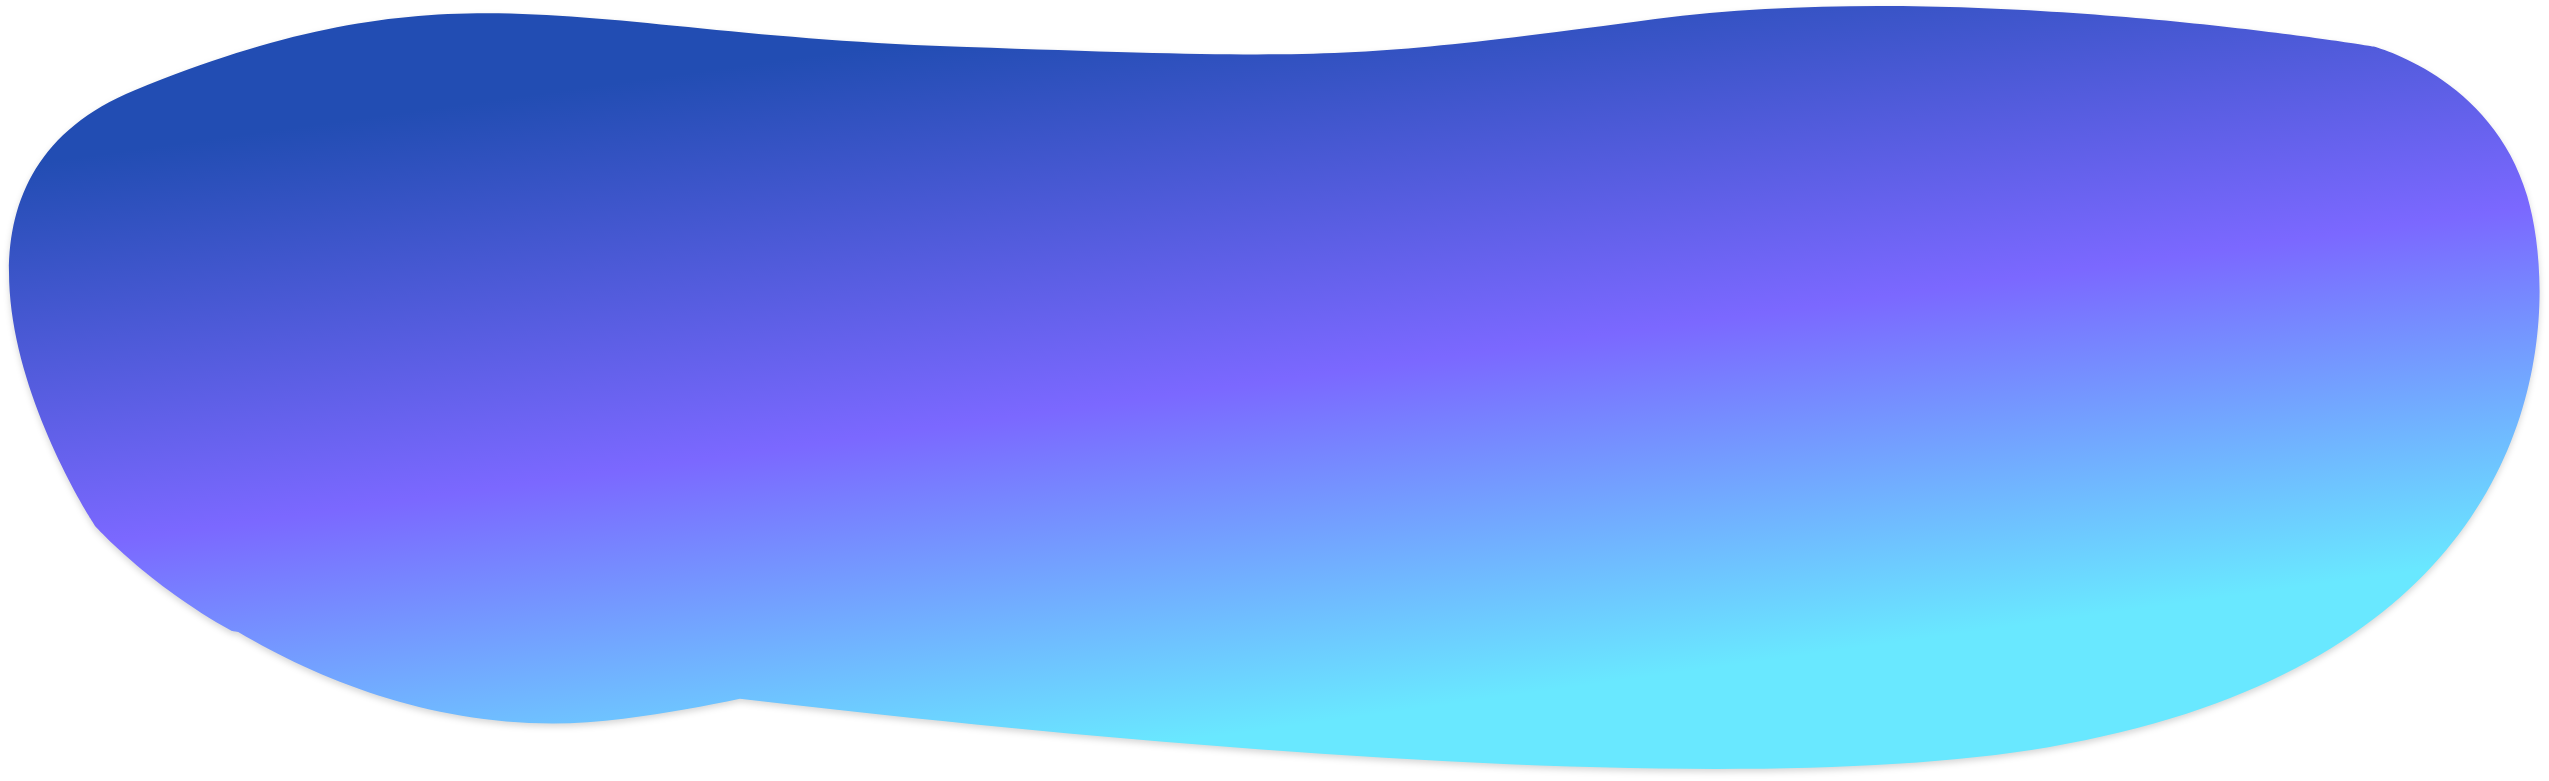
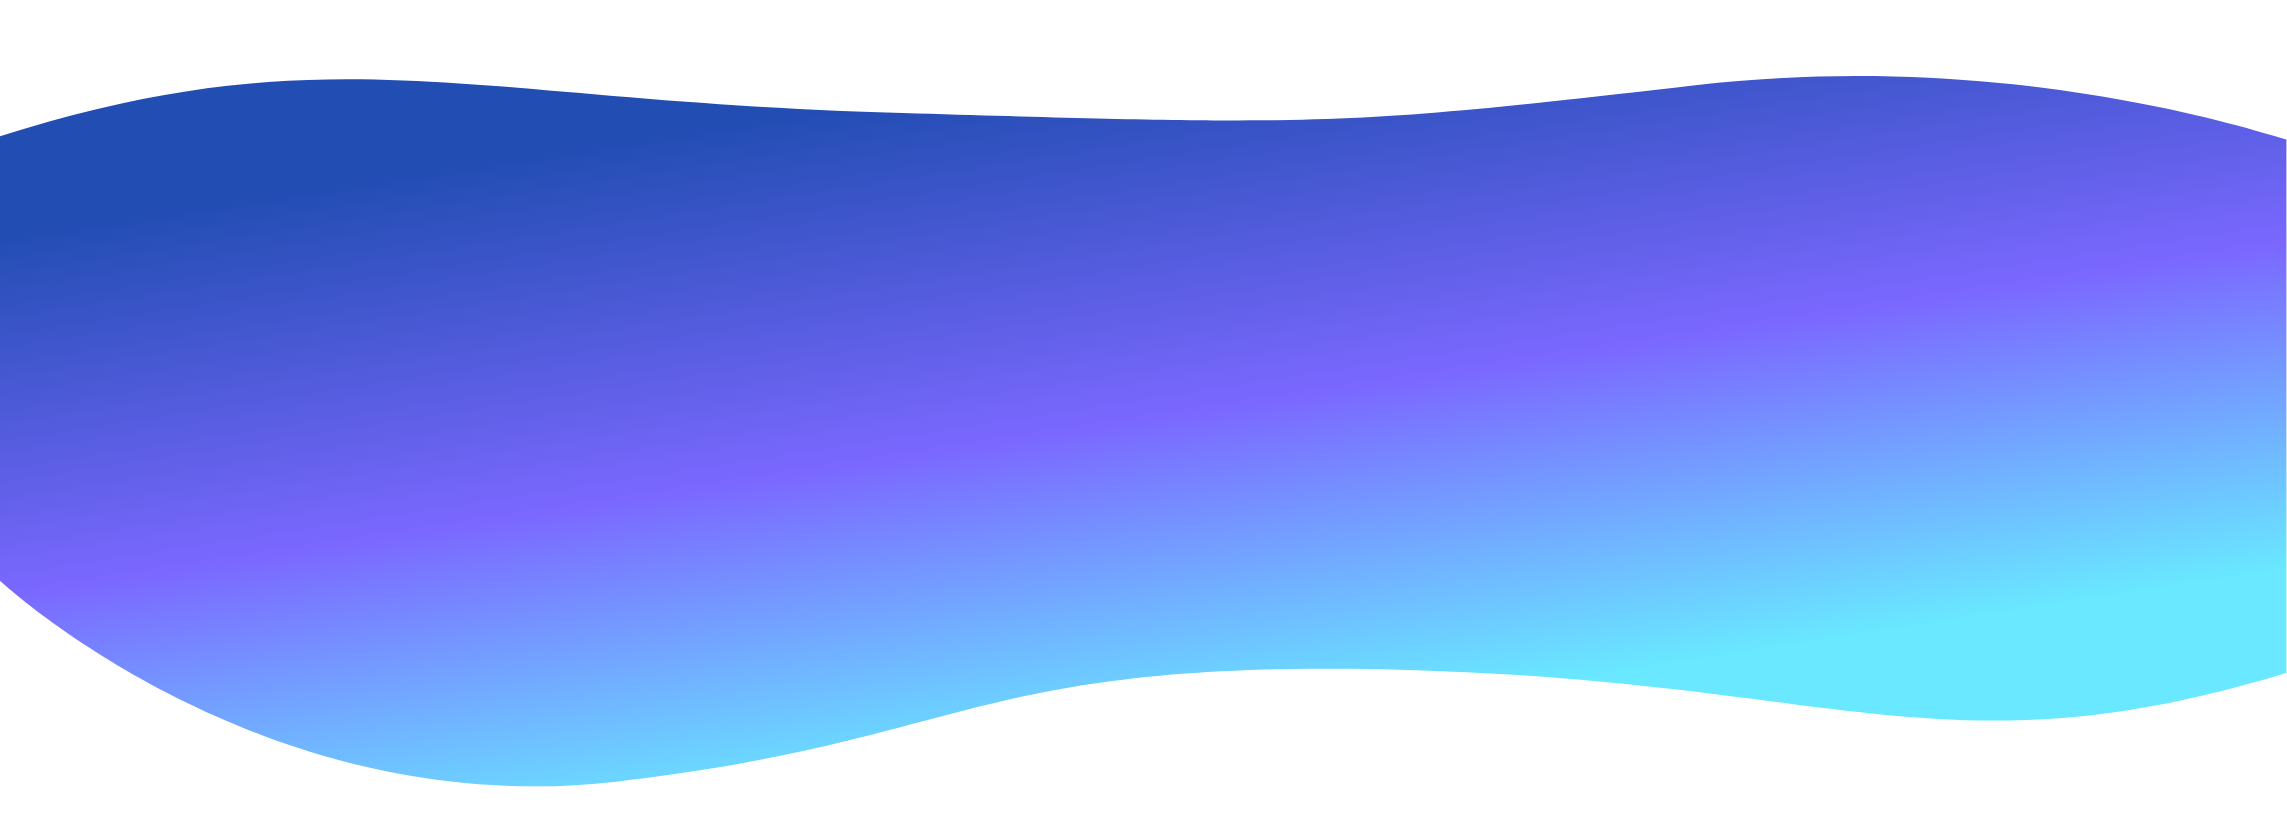
Arreglo posiciones e imagenes background de footer y  partners

Changed region(s): [[0.0, 0.0, 1.0, 1.0]]

diff --git a/gchilecompra/src/styles/_partners.scss b/gchilecompra/src/styles/_partners.scss
@@ -1,8 +1,41 @@
 @use '_variables' as *;
 
+.bg4-container-fluid {
+  display: flex;
+  align-items: center;
+  align-content: center;
+  justify-content: center;
+  height: 650px;
+  background-image: url(../images/bg4.png);
+  background-repeat: no-repeat;
+  background-size: 100%;
+  margin: 0 auto;
+  margin-bottom: 100px;
+
+  & .partners-title {
+    color: $bg-color;
+    margin-top: 10px;
+    text-align: center;
+  }
+
+  & .nav-link button.btn {
+    text-align: center;
+  }
+
+
+& .safe {
+  justify-content: center;
+  justify-items: center;
+}
+
+& .safe-text {
+  justify-content: center;
+  justify-items: center;
+  margin: 0 auto;
+}
+}
+
 .empresas {
-    // display: flex;
-    // flex-direction: row;
     text-align: center;
     justify-content: center;
     justify-items: center;
@@ -14,12 +47,6 @@
       justify-items: center;
       margin: 0 auto;
     }
-  }
-  
-  .safe-text {
-    justify-content: center;
-    justify-items: center;
-    margin: 0 auto;
   }
   
   .empresa {
@@ -37,4 +64,3 @@
     width: 200px;
     padding-bottom: 30px;
   }
-

diff --git a/gchilecompra/src/components/footer.jsx b/gchilecompra/src/components/footer.jsx
@@ -8,15 +8,16 @@ function Footer() {
 
   return (
 
-    <div className="footer-container mb-0">
-      {/* <img src={bg5} alt="Footer Background" weight='100%' height='300px' mb-0 /> */}
-      <section class="footer text-center text-lg-start">
+    <div className="footer">
+      {/* <img src={bg5} alt="Footer Background" /> */}
 
+      <section className="footer text-center text-lg-start">
+        
         <div className="footer d-flex justify-content-center justify-content-lg-between">
 
           <div className="container text-center text-md-start mt-5">
             {/* <!-- Grid row --> */}
-            <div className="row mt-4">
+            <div className="text-footer row mt-4">
               {/* <!-- Grid column --> */}
               <div className="fw-bold col-xs-4 mb-4 col-md-3 col-lg-2 col-xl-2 mx-auto mb-2">
                 {/* <!-- Content --> */}

diff --git a/gchilecompra/src/styles/_footer.scss b/gchilecompra/src/styles/_footer.scss
@@ -1,20 +1,23 @@
 @use '_variables' as *;
 
-div .footer {
-  position: block;
-  bottom: 0;
+.footer {
+  background-image: url('../images/bg5.png');
+  background-repeat: no-repeat;
+  position: absolute;
+  // background-position:  0  0;
+  background-size: cover;
   width: 100%;
-  background: $primary-color;
-  margin-top: auto;
-
-  & h6 {
-    color: white;
-    font-size: 12px;
-    font-weight: bold;
-    text-align: left;
-    line-height: 3px;
-  }
+  left: 0;
+  right: 0;
+  height: 500px;
+  // z-index: 0;
+  overflow: hidden;
 }
+
+.text-footer {
+  margin-top: 100px;
+}
+
 
 .footer a,
 p {
@@ -36,8 +39,6 @@ p {
 // TOGGLE FAQS General
 
 .faqs {
-
-
 & toggle-body {
   color: #707070;
   background: white;
@@ -72,6 +73,7 @@ p {
     }
   }
 }
+
 /* Accordion styles */
 & .tabs {
   border-radius: 8px;

diff --git a/gchilecompra/src/styles/_home.scss b/gchilecompra/src/styles/_home.scss
@@ -207,37 +207,6 @@
   }
 }
 
-.bg4-container {
-  display: flex;
-  align-items: center;
-  align-content: center;
-  justify-content: center;
-  height: 510px;
-  background-image: url(../images/bg4.png);
-  background-repeat: no-repeat;
-  background-size: 100%;
-  margin: 0 auto;
-  margin-bottom: 100px;
-
-  & h3 {
-    color: $bg-color;
-    margin-top: 50px;
-  }
-  .nav-link button.btn {
-    text-align: center;
-  }
-}
-
-.safe {
-  justify-content: center;
-  justify-items: center;
-}
-
-.safe-text {
-  justify-content: center;
-  justify-items: center;
-  margin: 0 auto;
-}
 
 // SEGURIDAD TEXTO
 .safe-text.container {
@@ -314,7 +283,6 @@
     font-weight: bold;
     width: 100px;
   }
-
 }
 
 .banner__title {

diff --git a/gchilecompra/src/views/home/partners.jsx b/gchilecompra/src/views/home/partners.jsx
@@ -15,11 +15,11 @@ import empresa7 from '../../images/empresa7.png';
 const Partners = () => {
     return (
 
-        <div className='partners bg4-container container-fluid mt-5'>
+        <div className='partners bg4-container-fluid mt-5'>
 
             <div className='safe'>
-                <h3>Tu proyecto respaldado</h3>
-                <div className='safe-text'>
+                <h3 className='partners-title'>Tu proyecto respaldado</h3>
+                <div className='partners safe-text '>
                     {/* <div className='row'> */}
                         <div className=''>
                             <div className='empresas'>
